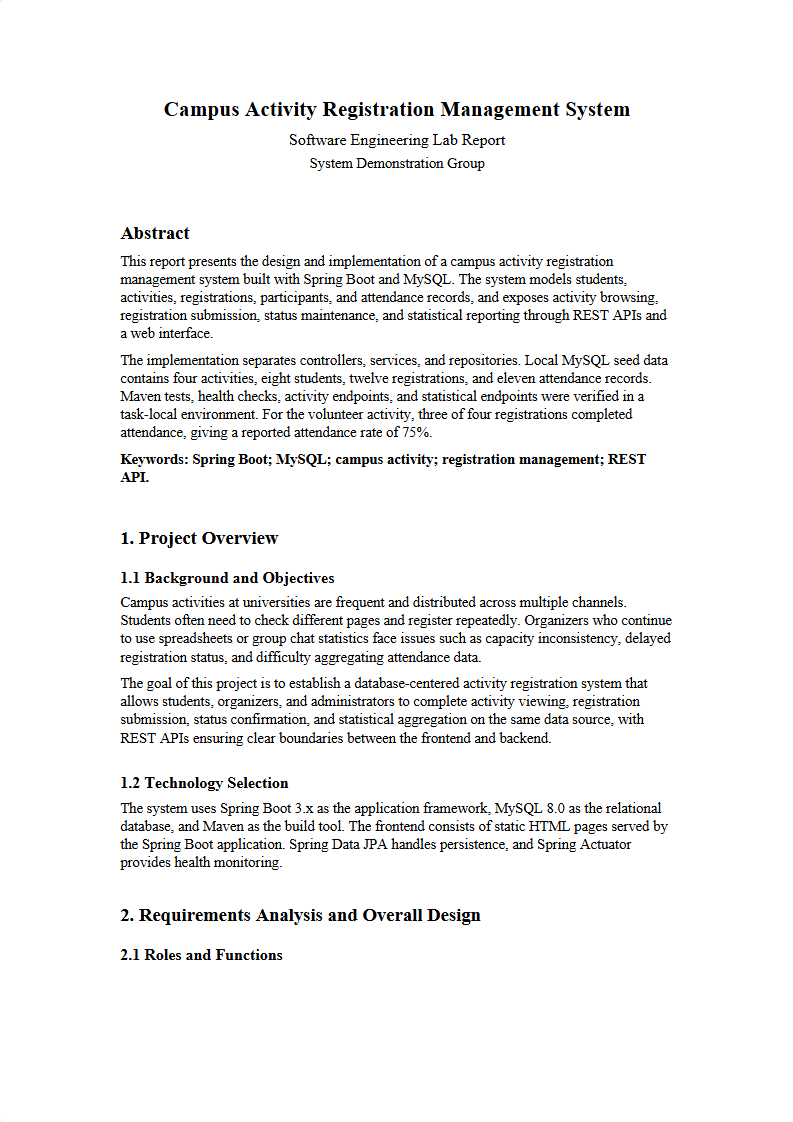
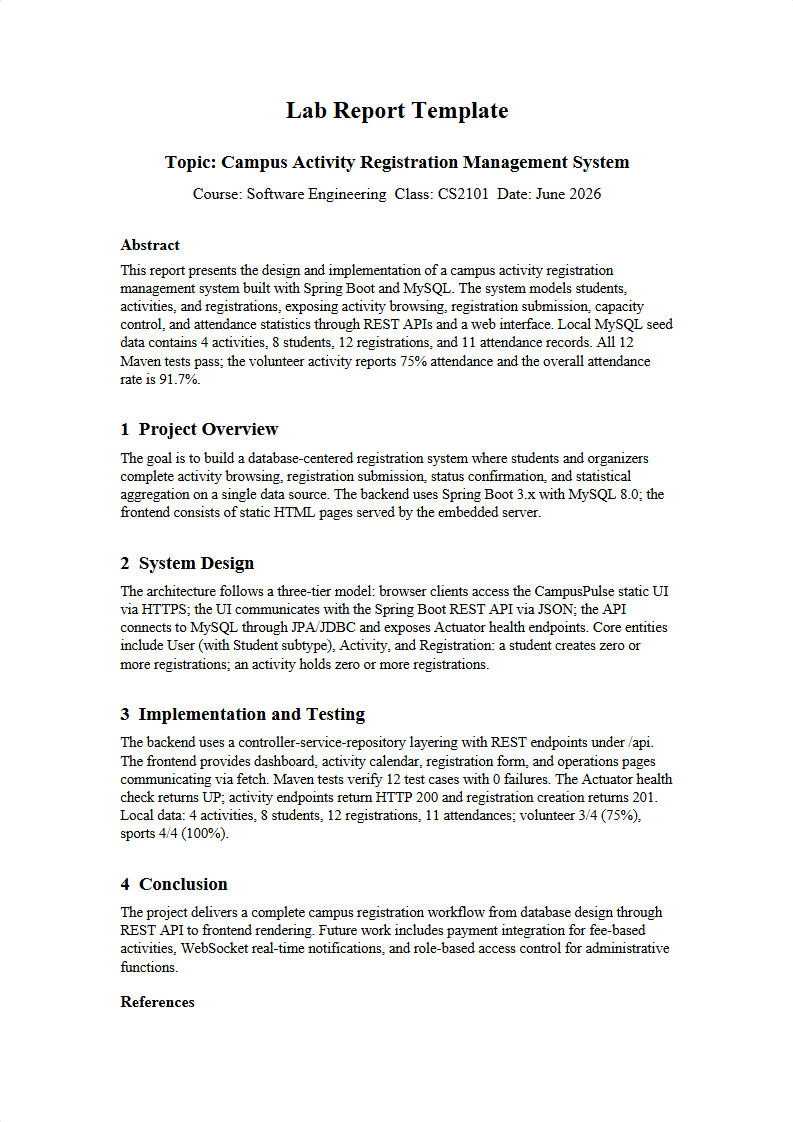
docs: match template and filled showcases, fix diagram grid layout
- Create English Lab Report Template as the before state
- Rebuild filled-english.docx to follow the same template structure
- Convert all README grids to fixed-width <img> tags (280px) so wide
  diagrams no longer squeeze narrow ones
- Update showcase comparison to template vs filled of the same document

Changed region(s): [[0.1513, 0.1872, 0.8474, 0.9046], [0.2119, 0.0936, 0.7869, 0.1872]]

diff --git a/README.en.md b/README.en.md
@@ -35,7 +35,7 @@ All assets are generated from one demo project: a Spring Boot + MySQL campus act
 
 | Before filling | After filling |
 | --- | --- |
-| <img src="display/word/render/before-01.png" alt="Report template before filling" width="360"> | <img src="display/word/render/filled-en-1.png" alt="Completed report page" width="360"> |
+| <img src="display/word/render/template-en-1.png" alt="Report template before filling" width="360"> | <img src="display/word/render/filled-en-1.png" alt="Completed report page" width="360"> |
 
 ## Image Module
 
@@ -51,9 +51,9 @@ python scripts/capture_frontend_screenshots.py --config <capture-plan.json> --ou
 
 | | | |
 |:---:|:---:|:---:|
-| ![dashboard](display/images/capture/01-dashboard.png) | ![calendar](display/images/capture/02-activity-calendar.png) | ![registration](display/images/capture/03-registration.png) |
+| <img src="display/images/capture/01-dashboard.png" width="280" alt="dashboard"> | <img src="display/images/capture/02-activity-calendar.png" width="280" alt="calendar"> | <img src="display/images/capture/03-registration.png" width="280" alt="registration"> |
 | dashboard | activity-calendar | registration |
-| ![operations](display/images/capture/04-operations.png) | | |
+| <img src="display/images/capture/04-operations.png" width="280" alt="operations"> | | |
 | operations | | |
 
 ### ai — AI-generated screenshots
@@ -66,11 +66,11 @@ python scripts/generate_images.py --config <prompt-config.json>
 
 | | | |
 |:---:|:---:|:---:|
-| ![maven-terminal](display/images/ai/01-java-maven-terminal.png) | ![vscode](display/images/ai/02-registration-controller-vscode.png) | ![graphical-abstract](display/images/ai/03-campuspulse-graphical-abstract.png) |
+| <img src="display/images/ai/01-java-maven-terminal.png" width="280" alt="maven-terminal"> | <img src="display/images/ai/02-registration-controller-vscode.png" width="280" alt="vscode"> | <img src="display/images/ai/03-campuspulse-graphical-abstract.png" width="280" alt="graphical-abstract"> |
 | Maven build | VS Code source | Graphical abstract |
-| ![sql-query](display/images/ai/04-linux-sql-query.png) | ![network-ss](display/images/ai/05-linux-network-ss.png) | ![git-commit](display/images/ai/06-git-commit-terminal.png) |
+| <img src="display/images/ai/04-linux-sql-query.png" width="280" alt="sql-query"> | <img src="display/images/ai/05-linux-network-ss.png" width="280" alt="network-ss"> | <img src="display/images/ai/06-git-commit-terminal.png" width="280" alt="git-commit"> |
 | SQL query | Network verification | Git commit |
-| ![debug-breakpoint](display/images/ai/07-vscode-debug-breakpoint.png) | ![devtools](display/images/ai/08-browser-devtools-network.png) | ![maven-test](display/images/ai/09-terminal-maven-test.png) |
+| <img src="display/images/ai/07-vscode-debug-breakpoint.png" width="280" alt="debug-breakpoint"> | <img src="display/images/ai/08-browser-devtools-network.png" width="280" alt="devtools"> | <img src="display/images/ai/09-terminal-maven-test.png" width="280" alt="maven-test"> |
 | VS Code debugging | DevTools network panel | Maven test |
 
 ### diagram — Deterministic diagrams
@@ -83,11 +83,11 @@ python scripts/generate_diagram_assets.py --config <diagram-plan.json> --output-
 
 | | | |
 |:---:|:---:|:---:|
-| ![architecture](display/images/diagram/campus-activity-architecture.png) | ![er](display/images/diagram/campus-activity-er.png) | ![flow](display/images/diagram/campus-registration-flow.png) |
+| <img src="display/images/diagram/campus-activity-architecture.png" width="280" alt="architecture"> | <img src="display/images/diagram/campus-activity-er.png" width="280" alt="er"> | <img src="display/images/diagram/campus-registration-flow.png" width="280" alt="flow"> |
 | Architecture | ER diagram | Business flow |
-| ![class](display/images/diagram/campus-activity-class.png) | ![sequence](display/images/diagram/campus-registration-sequence.png) | ![usecase](display/images/diagram/campus-system-usecase.png) |
+| <img src="display/images/diagram/campus-activity-class.png" width="280" alt="class"> | <img src="display/images/diagram/campus-registration-sequence.png" width="280" alt="sequence"> | <img src="display/images/diagram/campus-system-usecase.png" width="280" alt="usecase"> |
 | Class diagram | Sequence diagram | Use case diagram |
-| ![topology](display/images/diagram/campus-network-topology.png) | | |
+| <img src="display/images/diagram/campus-network-topology.png" width="280" alt="topology"> | | |
 | Deployment topology | | |
 
 ### chart — Data charts
@@ -100,9 +100,9 @@ python integrations/nature-figure/scripts/plot_templates.py <template> ...
 
 | | | |
 |:---:|:---:|:---:|
-| ![metric-matrix](display/images/chart/activity-metric-matrix.png) | ![capacity](display/images/chart/capacity-vs-registration.png) | ![volcano](display/images/chart/activity-volcano.png) |
+| <img src="display/images/chart/activity-metric-matrix.png" width="280" alt="metric-matrix"> | <img src="display/images/chart/capacity-vs-registration.png" width="280" alt="capacity"> | <img src="display/images/chart/activity-volcano.png" width="280" alt="volcano"> |
 | Metric matrix | Capacity comparison | Volcano plot |
-| ![roc](display/images/chart/checkin-model-roc.png) | ![dotplot](display/images/chart/activity-category-dotplot.png) | ![marginal](display/images/chart/registration-marginal.png) |
+| <img src="display/images/chart/checkin-model-roc.png" width="280" alt="roc"> | <img src="display/images/chart/activity-category-dotplot.png" width="280" alt="dotplot"> | <img src="display/images/chart/registration-marginal.png" width="280" alt="marginal"> |
 | ROC curve | Category dotplot | Marginal distribution |
 
 ## Office Module
@@ -118,9 +118,7 @@ python scripts/validate_office.py <file>.docx
 
 | Page 1 | Page 2 |
 |:---:|:---:|
-| ![filled-en-1](display/word/render/filled-en-1.png) | ![filled-en-2](display/word/render/filled-en-2.png) |
-| Page 3 | |
-| ![filled-en-3](display/word/render/filled-en-3.png) | |
+| <img src="display/word/render/filled-en-1.png" width="280" alt="filled-en-1"> | <img src="display/word/render/filled-en-2.png" width="280" alt="filled-en-2"> |
 
 ### Word from scratch
 
@@ -128,9 +126,9 @@ Creates a graduation thesis from scratch with table of contents, body, figures, 
 
 | Page 1 | Page 2 |
 |:---:|:---:|
-| ![thesis-en-1](display/document-from-scratch/render/thesis-en-1.png) | ![thesis-en-2](display/document-from-scratch/render/thesis-en-2.png) |
+| <img src="display/document-from-scratch/render/thesis-en-1.png" width="280" alt="thesis-en-1"> | <img src="display/document-from-scratch/render/thesis-en-2.png" width="280" alt="thesis-en-2"> |
 | Page 3 | Page 4 |
-| ![thesis-en-3](display/document-from-scratch/render/thesis-en-3.png) | ![thesis-en-4](display/document-from-scratch/render/thesis-en-4.png) |
+| <img src="display/document-from-scratch/render/thesis-en-3.png" width="280" alt="thesis-en-3"> | <img src="display/document-from-scratch/render/thesis-en-4.png" width="280" alt="thesis-en-4"> |
 
 ### Excel creation
 
@@ -140,7 +138,7 @@ Creates styled spreadsheets with formulas via officecli.
 python scripts/office_engine.py --action create --format excel ...
 ```
 
-![Registration statistics spreadsheet](display/excel/render/sheet-1.png)
+<img src="display/excel/render/sheet-1.png" width="280" alt="Registration statistics spreadsheet">
 
 ## Pipeline Overview
 
